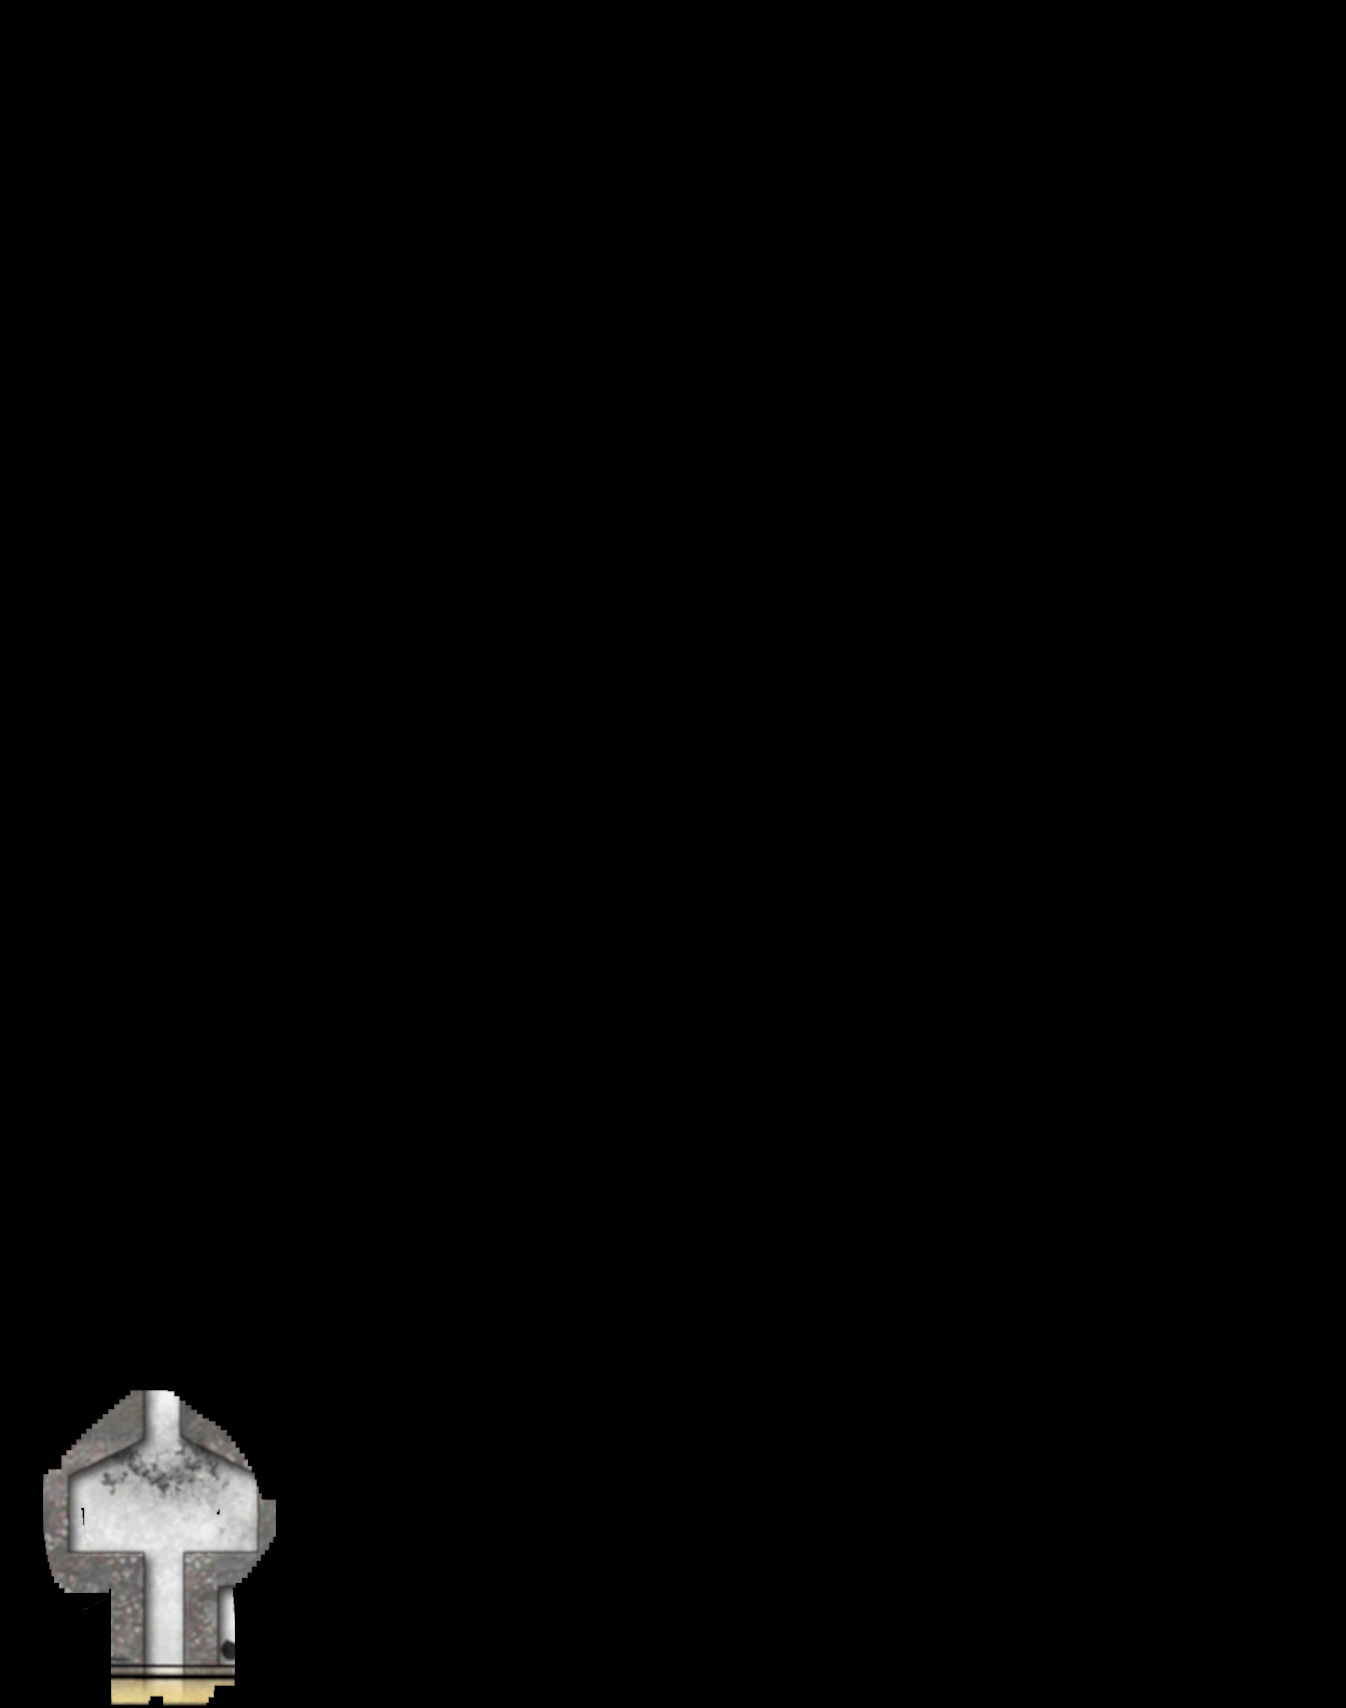
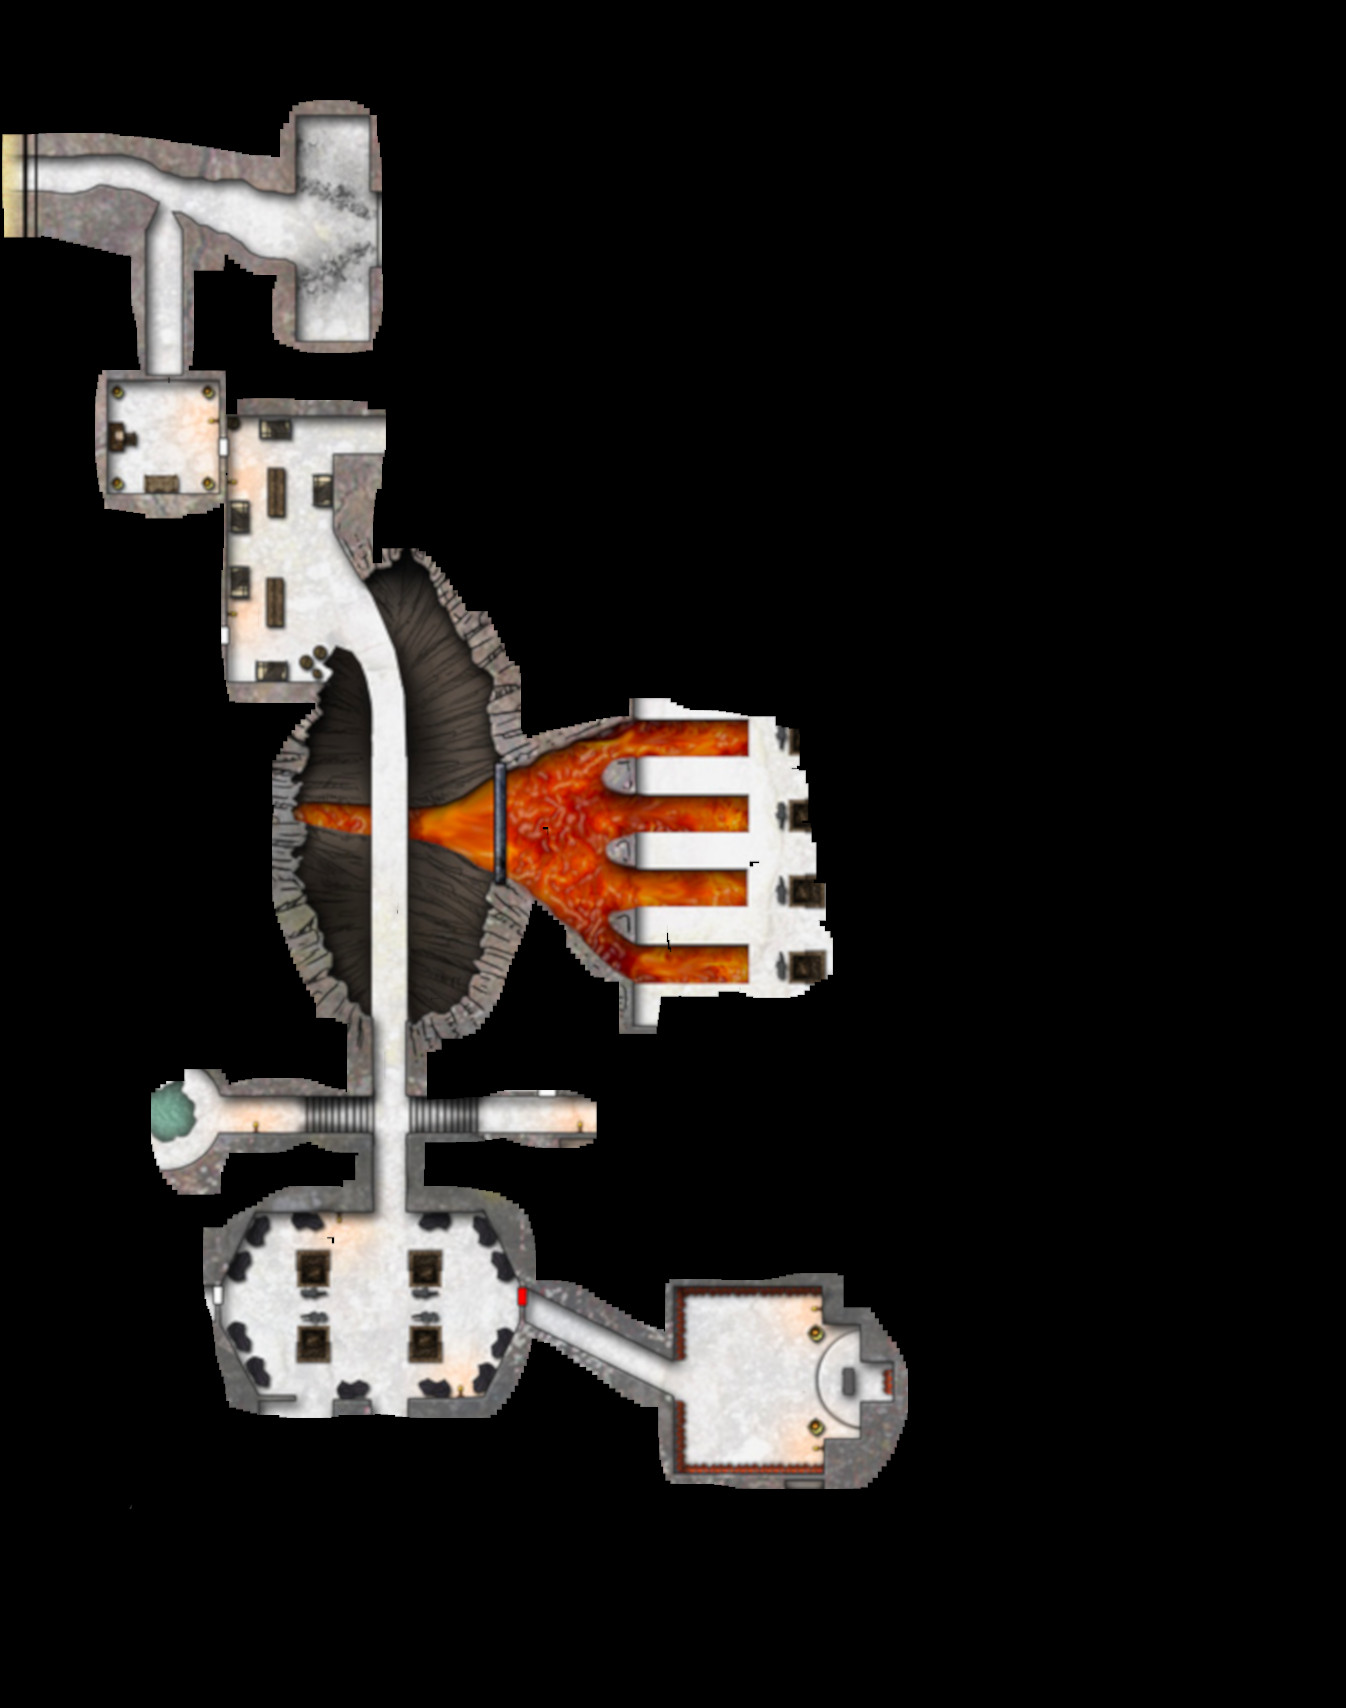
Session notes

Changed region(s): [[0.0, 0.0621, 0.6865, 1.0]]

diff --git a/dnd.html b/dnd.html
@@ -46,6 +46,7 @@
     <li><a href="#wed-24-apr-2019">Wed 24 Apr 2019</a></li>
     <li><a href="#wed-1-may-2019">Wed 1 May 2019</a></li>
     <li><a href="#wed-9-may-2019">Wed 9 May 2019</a></li>
+    <li><a href="#wed-15-may-2019">Wed 15 May 2019</a></li>
     </ul></li>
     </ul></li>
     </ul>
@@ -84,6 +85,10 @@
 <details>
 <p><summary>Darius</summary></p>
 <p>Inkeeper of the Snoring Giant Inn. Stout dark haired human man, tanned skin, hairy chest &amp; forearms, mutton chops. Tells the party about strange happenings in the valley.</p>
+</details>
+<details>
+<p><summary>Bastion</summary></p>
+<p>Fire genasi in the Fire Cult’s dungeon. Has some ambition to depose Vanifer. Asked the party to kill Vanifer and bring him their dagger for a hefty sum.</p>
 </details>
 <h2 id="items">Items</h2>
 <details>
@@ -142,6 +147,17 @@
 <p>During the battle an unknown druid escapes at the base of the tower…</p>
 <p>The party loots the druids living quarters for some gold, gems and a scroll, before fighting some giant bats in the attic, after a failed attempt at animal diplomacy.</p>
 <p>The party opts to take a short rest in the top of the tower.</p>
+</details>
+<h3 id="wed-15-may-2019">Wed 15 May 2019</h3>
+<details>
+<p><summary> Third session: Scalet Moon Hall Tower Pt.2</summary></p>
+<h4 id="rd-of-kythorn-1453-2">3rd of Kythorn 1453</h4>
+<p>The party opts to take a short rest in the top of the tower…</p>
+<p>The party descends the tower and has an encounter with some magmins and proceed down a hidden tunnel.</p>
+<p>Following the tunnel leads the party to a chamber underground. Elliania finds a secret door in one of the tunnels. On the other side of the secret door the party finds a Fire Genasi named Bastion, who convinces them to go find and kill Vanifer to bring him her dagger…</p>
+<p>The party agrees to go and find Vanifer.</p>
+<p>After following Bastion’s instructions the party finds Vanifer praying at an altar, with a corpse atop it.</p>
+<p>A failed stealth attempt leads to a large battle with Vanifer and her fire Elementals. Vanifer escapes…</p>
 </details>
   </div>
 <footer>

diff --git a/dnd.md b/dnd.md
@@ -34,6 +34,14 @@ Tells the party about strange happenings in the valley.
 
 </details>
 
+<details>
+<summary>Bastion</summary>
+
+Fire genasi in the Fire Cult's dungeon. Has some ambition to depose Vanifer.
+Asked the party to kill Vanifer and bring him their dagger for a hefty sum.
+
+</details>
+
 ## Items
 
 <details><summary>Windvane</summary>
@@ -123,5 +131,26 @@ The party loots the druids living quarters for some gold, gems and a scroll, bef
 after a failed attempt at animal diplomacy.
 
 The party opts to take a short rest in the top of the tower.
+
+</details> 
+
+### Wed 15 May 2019
+<details>
+<summary> Third session: Scalet Moon Hall Tower Pt.2</summary> 
+
+#### 3rd of Kythorn 1453 
+The party opts to take a short rest in the top of the tower...
+
+The party descends the tower and has an encounter with some magmins and proceed down a hidden tunnel.
+
+Following the tunnel leads the party to a chamber underground. Elliania finds a secret door in one of
+the tunnels. On the other side of the secret door the party finds a Fire Genasi named Bastion, who convinces
+them to go find and kill Vanifer to bring him her dagger...
+
+The party agrees to go and find Vanifer.
+
+After following Bastion's instructions the party finds Vanifer praying at an altar, with a corpse atop it.
+
+A failed stealth attempt leads to a large battle with Vanifer and her fire Elementals. Vanifer escapes...
 
 </details> 

diff --git a/combat.md b/combat.md
@@ -117,3 +117,36 @@ AC 13 22 14 8 0 HP
 AC 13 22 4 0 HP
 AC 13 22 9 0 HP
 AC 13 22 0 HP
+
+### Magmins
+4 Magmins H6 of the Scarlet Moon Hall p 71 (400XP)
+
+20 Coldor
+16 Crain
+14 Shava, Moonpie
+10 Magmins
+
+Magmin
+
+14 AC 9, 1 0 HP
+14 AC 9, 4, 0 HP
+14 AC 9, 1, 0 HP
+14 AC 9, 0 HP
+
+
+## Vanifer encounter
+
+22 Fire Elementals 
+21 Crain
+18 Shava
+17 Coldor
+15 Sprites
+7 Vanifer
+4 Moonpie
+
+Vanifer 15 AC 112, 91, 90, 89, 88, 87, 86, 75, 70, 58, 52, 38 HP
+Fire Elemental 1 13 AC 102, 96, 92, 86, 68, 51, 12, 1 HP
+Fire Elemental 2 13 AC 102, 96, 89, 70, 41, 35, 34, 30, 0 HP
+
+
+
